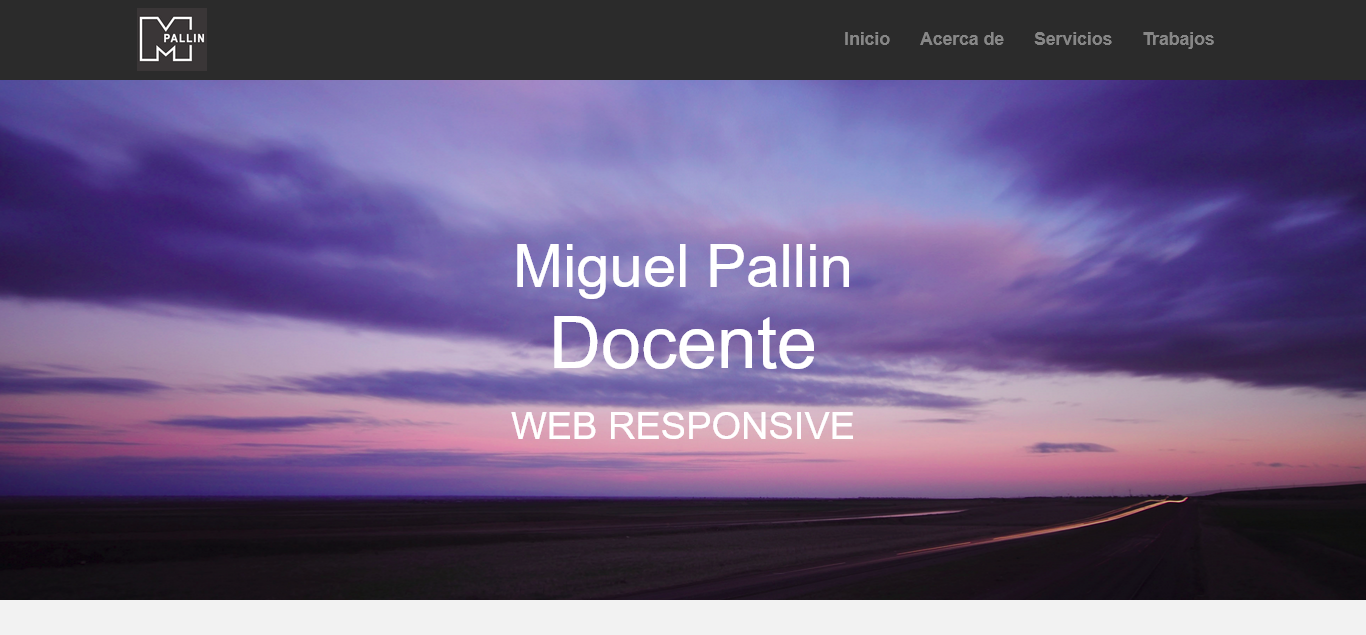
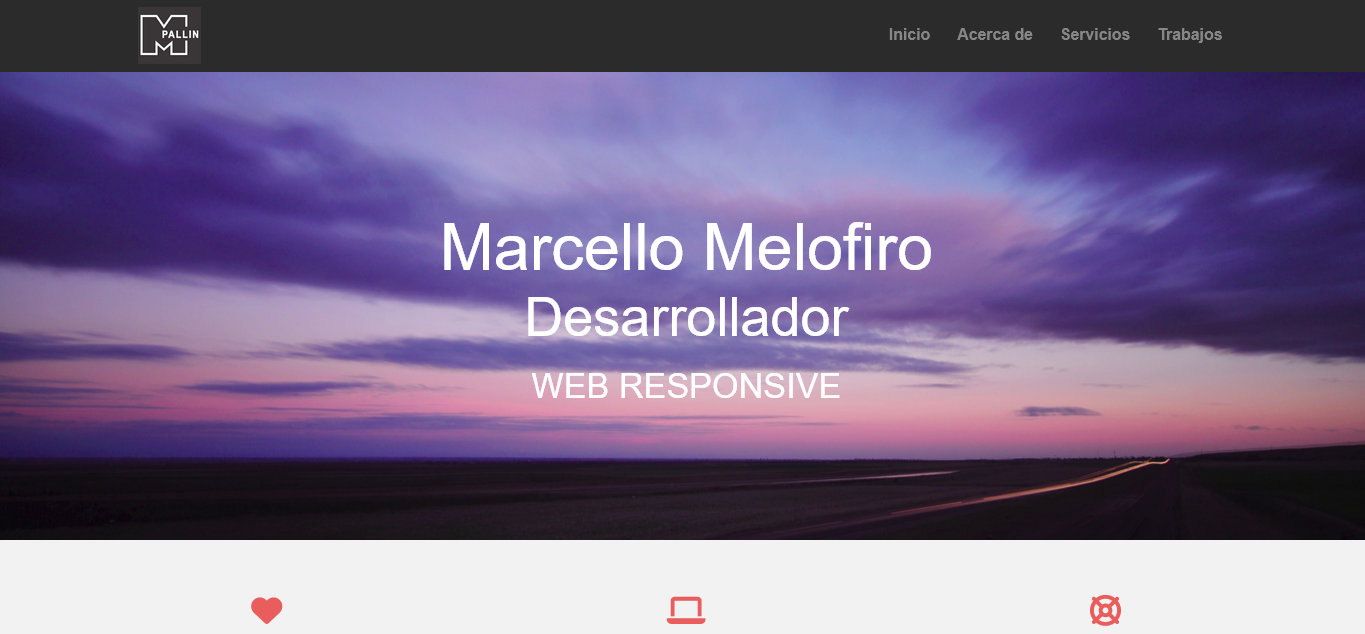
Add files via upload

diff --git a/index.html b/index.html
@@ -56,7 +56,7 @@
 
             <h1>Marcello Melofiro</h1>
 
-            <p>Lorem ipsum, dolor sit amet consectetur adipisicing elit. Expedita exercitationem alias, tenetur omnis ullam necessitatibus delectus minima provident praesentium quisquam ipsum, ex aliquid ea reiciendis illum odit atque aut amet.</p>    
+            <p>Diseñador y Desarrollador Web</p>    
 
         </div>
 
@@ -80,7 +80,11 @@
 
                 <div id="cv-txt">
 
-                    <p>Lorem ipsum dolor sit amet consectetur, adipisicing elit. Cumque temporibus placeat nesciunt tempore? Delectus ipsam error, autem in quas debitis animi aliquid. Et omnis asperiores dolore consectetur minima doloremque recusandae.</p>
+                    <p>
+                        Soy un desarrollador web con años de experiencia en el campo de la informática. Me he especializado en el desarrollo web y el diseño gráfico, sin embargo, poseo conocimientos avanzados en la edición de imágenes y videos, animación flash, y ofimática.
+                        <br>
+                        Entre los programas que utilizo se incluyen Adobe Illustrator, Premiere Pro, InDesign, Animate, Photoshop y Corel Draw.
+                    </p>
 
                 </div>
     
@@ -102,7 +106,7 @@
 
                         <div class="tarjeta derecha">
     
-                            <img src="https://miguelpallin.com/image/dise%C3%B1o_grafico.jpg" alt="">
+                            <img src="imagenes/diseñogra.jpg" alt="">
         
                             <div class="cont-tarj">
         
@@ -114,11 +118,11 @@
         
                         <div class="tarjeta">
         
-                            <img src="https://miguelpallin.com/image/excel-completo.jpg" alt="">
+                            <img src="imagenes/photo.jpg" alt="">
         
                             <div class="cont-tarj cont-izq">
         
-                                <p>ESPECIALISTA EN EXCEL</p>
+                                <p>EDICIÓN DE IMAGEN</p>
         
                             </div>
         
@@ -130,7 +134,7 @@
 
                         <div class="tarjeta derecha">
     
-                            <img src="https://miguelpallin.com/image/webswite.jpg" alt="">
+                            <img src="imagenes/web.jpg" alt="">
         
                             <div class="cont-tarj">
         
@@ -142,11 +146,11 @@
         
                         <div class="tarjeta">
         
-                            <img src="https://miguelpallin.com/image/autodesk.jpg" alt="">
+                            <img src="imagenes/video.jpg" alt="">
         
                             <div class="cont-tarj cont-izq">
         
-                                <p>ESPECIALISTA EN AUTODESK</p>
+                                <p>EDICIÓN DE VIDEO</p>
         
                             </div>
 
@@ -175,45 +179,45 @@
                 <div id="serv-flex">
 
                     <div class="cuadros">
-                        <i class="fa-solid fa-pen-nib"></i>
+                        <i class="fa-solid fa-bullseye"></i>
             
                         <p class="cuad-marg"><span class="cuad-titu">Branding</span></p>
-                        <p>Lorem ipsum dolor sit amet consectetur adipisicing elit. Consequatur, beatae?</p>
+                        <p>Creamos tu marca. Nos encargamos que tu página refleje tu empresa.</p>
                     </div>
             
                     <div class="cuadros">
                         <i class="fa-solid fa-desktop"></i>
             
-                        <p class="cuad-marg"><span class="cuad-titu">Ordenador</span></p>
-                        <p>Lorem ipsum dolor sit amet consectetur adipisicing elit. Consequatur, beatae?</p>
+                        <p class="cuad-marg"><span class="cuad-titu">Desarrollo</span></p>
+                        <p>Diseño y desarrollo web que brinda la mejor experiencia al consumidor.</p>
                     </div>
             
                     <div class="cuadros">
-                        <i class="fa-solid fa-heart"></i>
+                        <i class="fa-solid fa-handshake-simple"></i>
             
-                        <p class="cuad-marg"><span class="cuad-titu">Corazón</span></p>
-                        <p>Lorem ipsum dolor sit amet consectetur adipisicing elit. Consequatur, beatae?</p>
+                        <p class="cuad-marg"><span class="cuad-titu">Confianza</span></p>
+                        <p>Trabajamos mano a mano con nuestros clientes para asegurar los mejores resultado.</p>
                     </div>
             
                     <div class="cuadros">
-                        <i class="fa-solid fa-eye"></i>
+                        <i class="fa-solid fa-calendar-days"></i>
             
-                        <p class="cuad-marg"><span class="cuad-titu">Ojo</span></p>
-                        <p>Lorem ipsum dolor sit amet consectetur adipisicing elit. Consequatur, beatae?</p>
+                        <p class="cuad-marg"><span class="cuad-titu">Puntualidad</span></p>
+                        <p>Entregamos tus pedidos a tiempo. Los periodos también son negociables.</p>
                     </div>
             
                     <div class="cuadros">
-                        <i class="fa-solid fa-lightbulb"></i>
+                        <i class="fa-solid fa-sliders"></i>
             
-                        <p class="cuad-marg"><span class="cuad-titu">Foco</span></p>
-                        <p>Lorem ipsum dolor sit amet consectetur adipisicing elit. Consequatur, beatae?</p>
+                        <p class="cuad-marg"><span class="cuad-titu">Edición</span></p>
+                        <p>Edición profesional de fotos y videos, para tu negocio o empresa.</p>
                     </div>
             
                     <div class="cuadros">
-                        <i class="fa-solid fa-trophy"></i>
+                        <i class="fa-solid fa-magnifying-glass"></i>
             
-                        <p class="cuad-marg"><span class="cuad-titu">Trofeo</span></p>
-                        <p>Lorem ipsum dolor sit amet consectetur adipisicing elit. Consequatur, beatae?</p>
+                        <p class="cuad-marg"><span class="cuad-titu">Profesionalidad</span></p>
+                        <p>Los detalles importan. Trabajamos para entregar productos profesionales.</p>
                     </div>
     
                 </div>

diff --git a/css/style.css b/css/style.css
@@ -6,8 +6,9 @@
     scroll-behavior: smooth;
 }
 
-p, hr, h1, h2, h3, h4, h5, h6{
+p, hr, h1, h2, h3, h4, h5, h6, hr{
     color: #071013;
+    padding-top: 0;
 }
 
 header{
@@ -29,7 +30,7 @@ header img{
 
 nav{
     float: right;
-    transform: translate(0, 5%);
+    transform: translate(0, 7%);
 }
 
 nav ul{
@@ -93,7 +94,7 @@ main p{
 
 #sobre{
     background: #F8F8F8;
-    padding: 4% 5%;
+    padding: calc(4% - 10px) 5% 4% 5%;
     position: relative;
     overflow: hidden;
 }
@@ -130,6 +131,7 @@ main p{
 #cv-left p{
     font-size: 1.3rem;
     font-weight: 300;
+    line-height: 1.8rem;
 }
 
 #descargar{
@@ -196,7 +198,7 @@ main p{
     }
 
     #sobre{
-        padding: 10% 5%;
+        padding: calc(10% - 10px) 5% 10% 5%;
         position: relative;
         overflow: hidden;
     }

diff --git a/css/testi.css b/css/testi.css
@@ -1,7 +1,7 @@
 #testimonios{
     background: rgb(162,150,255);
     background: linear-gradient(135deg, rgba(162,150,255,1) 0%, rgba(47,114,255,1) 100%);
-    padding: 4% 5%;
+    padding: calc(4% - 10px) 5% 4% 5%;
 
     scroll-margin-block-start: 54px;
 }
@@ -12,6 +12,10 @@
     font-size: 2.3rem;
     font-weight: 500;
     margin-bottom: 2%;
+}
+
+#testimonios hr{
+    color: #F8F8F8;
 }
 
 #test-flex{
@@ -67,7 +71,7 @@
 @media only screen and (max-width: 800px){
 
     #testimonios{
-        padding: 10% 5%;
+        padding: calc(10% - 10px) 5% 10% 5%;
 
         scroll-margin-block-start: 53px;
     }

diff --git a/css/cont.css b/css/cont.css
@@ -1,6 +1,6 @@
 #contacto{
     background: #F8F8F8;
-    padding: 4% 5%;
+    padding: calc(4% - 10px) 5% 4% 5%;
 
     scroll-margin-block-start: 53px;
 }
@@ -91,7 +91,7 @@ input[type="submit"]:hover{
 @media only screen and (max-width: 800px){
 
     #contacto{
-        padding: 10% 5%;
+        padding: calc(10% - 10px) 5% 10% 5%;
 
         scroll-margin-block-start: 53px;
     }

diff --git a/css/porta.css b/css/porta.css
@@ -1,6 +1,6 @@
 #portafolio{
     background: #F8F8F8;
-    padding: 4% 5%;
+    padding: calc(4% - 10px) 5% 4% 5%;
 
     scroll-margin-block-start: 53px;
 }
@@ -53,7 +53,7 @@
 @media only screen and (max-width: 800px){
 
     #portafolio{
-        padding: 10% 5%;
+        padding: calc(10% - 10px) 5% 10% 5%;
 
         scroll-margin-block-start: 53px;
     }

diff --git a/css/servicios.css b/css/servicios.css
@@ -37,7 +37,7 @@
 #serv-mask{
     background-color: rgba(0, 0, 0, 0.5);
     height: 100%;
-    padding: 4% 5%;
+    padding: calc(4% - 10px) 5% 4% 5%;
 }
 
 #serv-mask h2{
@@ -94,7 +94,7 @@
     }
 
     #serv-mask{
-        padding: 10% 5%;
+        padding: calc(10% - 10px) 5% 10% 5%;
     }
 
     .cuadros{

diff --git a/css/tarjetas.css b/css/tarjetas.css
@@ -53,7 +53,7 @@
 
 .cont-tarj p{
     color: #F8F8F8;
-    font-size: 3vh;
+    font-size: 200%;
     font-weight: 300;
     position: absolute;
     transform: translate(-50%, -50%);
